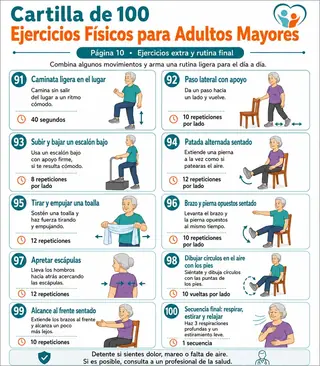
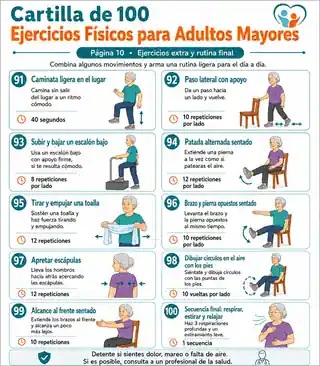
Fix bonus images and finish image delivery optimizations

diff --git a/src/routes/index.tsx b/src/routes/index.tsx
@@ -12,7 +12,9 @@ import dumbbell320 from "@/assets/optimized/dumbbell-320.webp";
 import equip320 from "@/assets/optimized/equip-320.webp";
 import eval320 from "@/assets/optimized/eval-320.webp";
 import flex320 from "@/assets/optimized/flex-320.webp";
+import hero480 from "@/assets/optimized/hero-480.webp";
 import hero640 from "@/assets/optimized/hero-640.webp";
+import hero768 from "@/assets/optimized/hero-768.webp";
 import hero960 from "@/assets/optimized/hero-960.webp";
 import mobility320 from "@/assets/optimized/mobility-320.webp";
 import routine320 from "@/assets/optimized/routine-320.webp";
@@ -23,7 +25,10 @@ import chat3 from "@/assets/optimized/chat3-480.webp";
 import chat4 from "@/assets/optimized/chat4-480.webp";
 import chat5 from "@/assets/optimized/chat5-480.webp";
 
-const heroMockup = { url: hero960, srcSet: `${hero640} 640w, ${hero960} 960w` };
+const heroMockup = {
+  url: hero960,
+  srcSet: `${hero480} 480w, ${hero640} 640w, ${hero768} 768w, ${hero960} 960w`,
+};
 const pgFlex = { url: flex320 };
 const pgEquip = { url: equip320 };
 const pgCog = { url: cog320 };
@@ -582,7 +587,7 @@ function LandingPage() {
             <div className="bonus-grid">
               <article className="bonus">
                 <img
-                  src={bonus1.url}
+                  src={bonus1}
                   alt="Bono de movilidad reducida"
                   width={900}
                   height={900}
@@ -601,7 +606,7 @@ function LandingPage() {
               </article>
               <article className="bonus">
                 <img
-                  src={bonus2.url}
+                  src={bonus2}
                   alt="Bono de recuperación física"
                   width={900}
                   height={900}
@@ -621,7 +626,7 @@ function LandingPage() {
               </article>
               <article className="bonus">
                 <img
-                  src={bonus3.url}
+                  src={bonus3}
                   alt="Guía de evaluación física"
                   width={900}
                   height={900}

diff --git a/src/routes/__root.tsx b/src/routes/__root.tsx
@@ -99,6 +99,7 @@ function RootShell({ children }: { children: ReactNode }) {
       <head>
         <meta charSet="utf-8" />
         <meta name="viewport" content="width=device-width, initial-scale=1" />
+        <meta httpEquiv="Content-Security-Policy" content="font-src 'self' data:" />
         <meta name="theme-color" content="#fff9f1" />
         <title>+1000 Ejercicios Adaptados para Adultos Mayores</title>
         <meta
